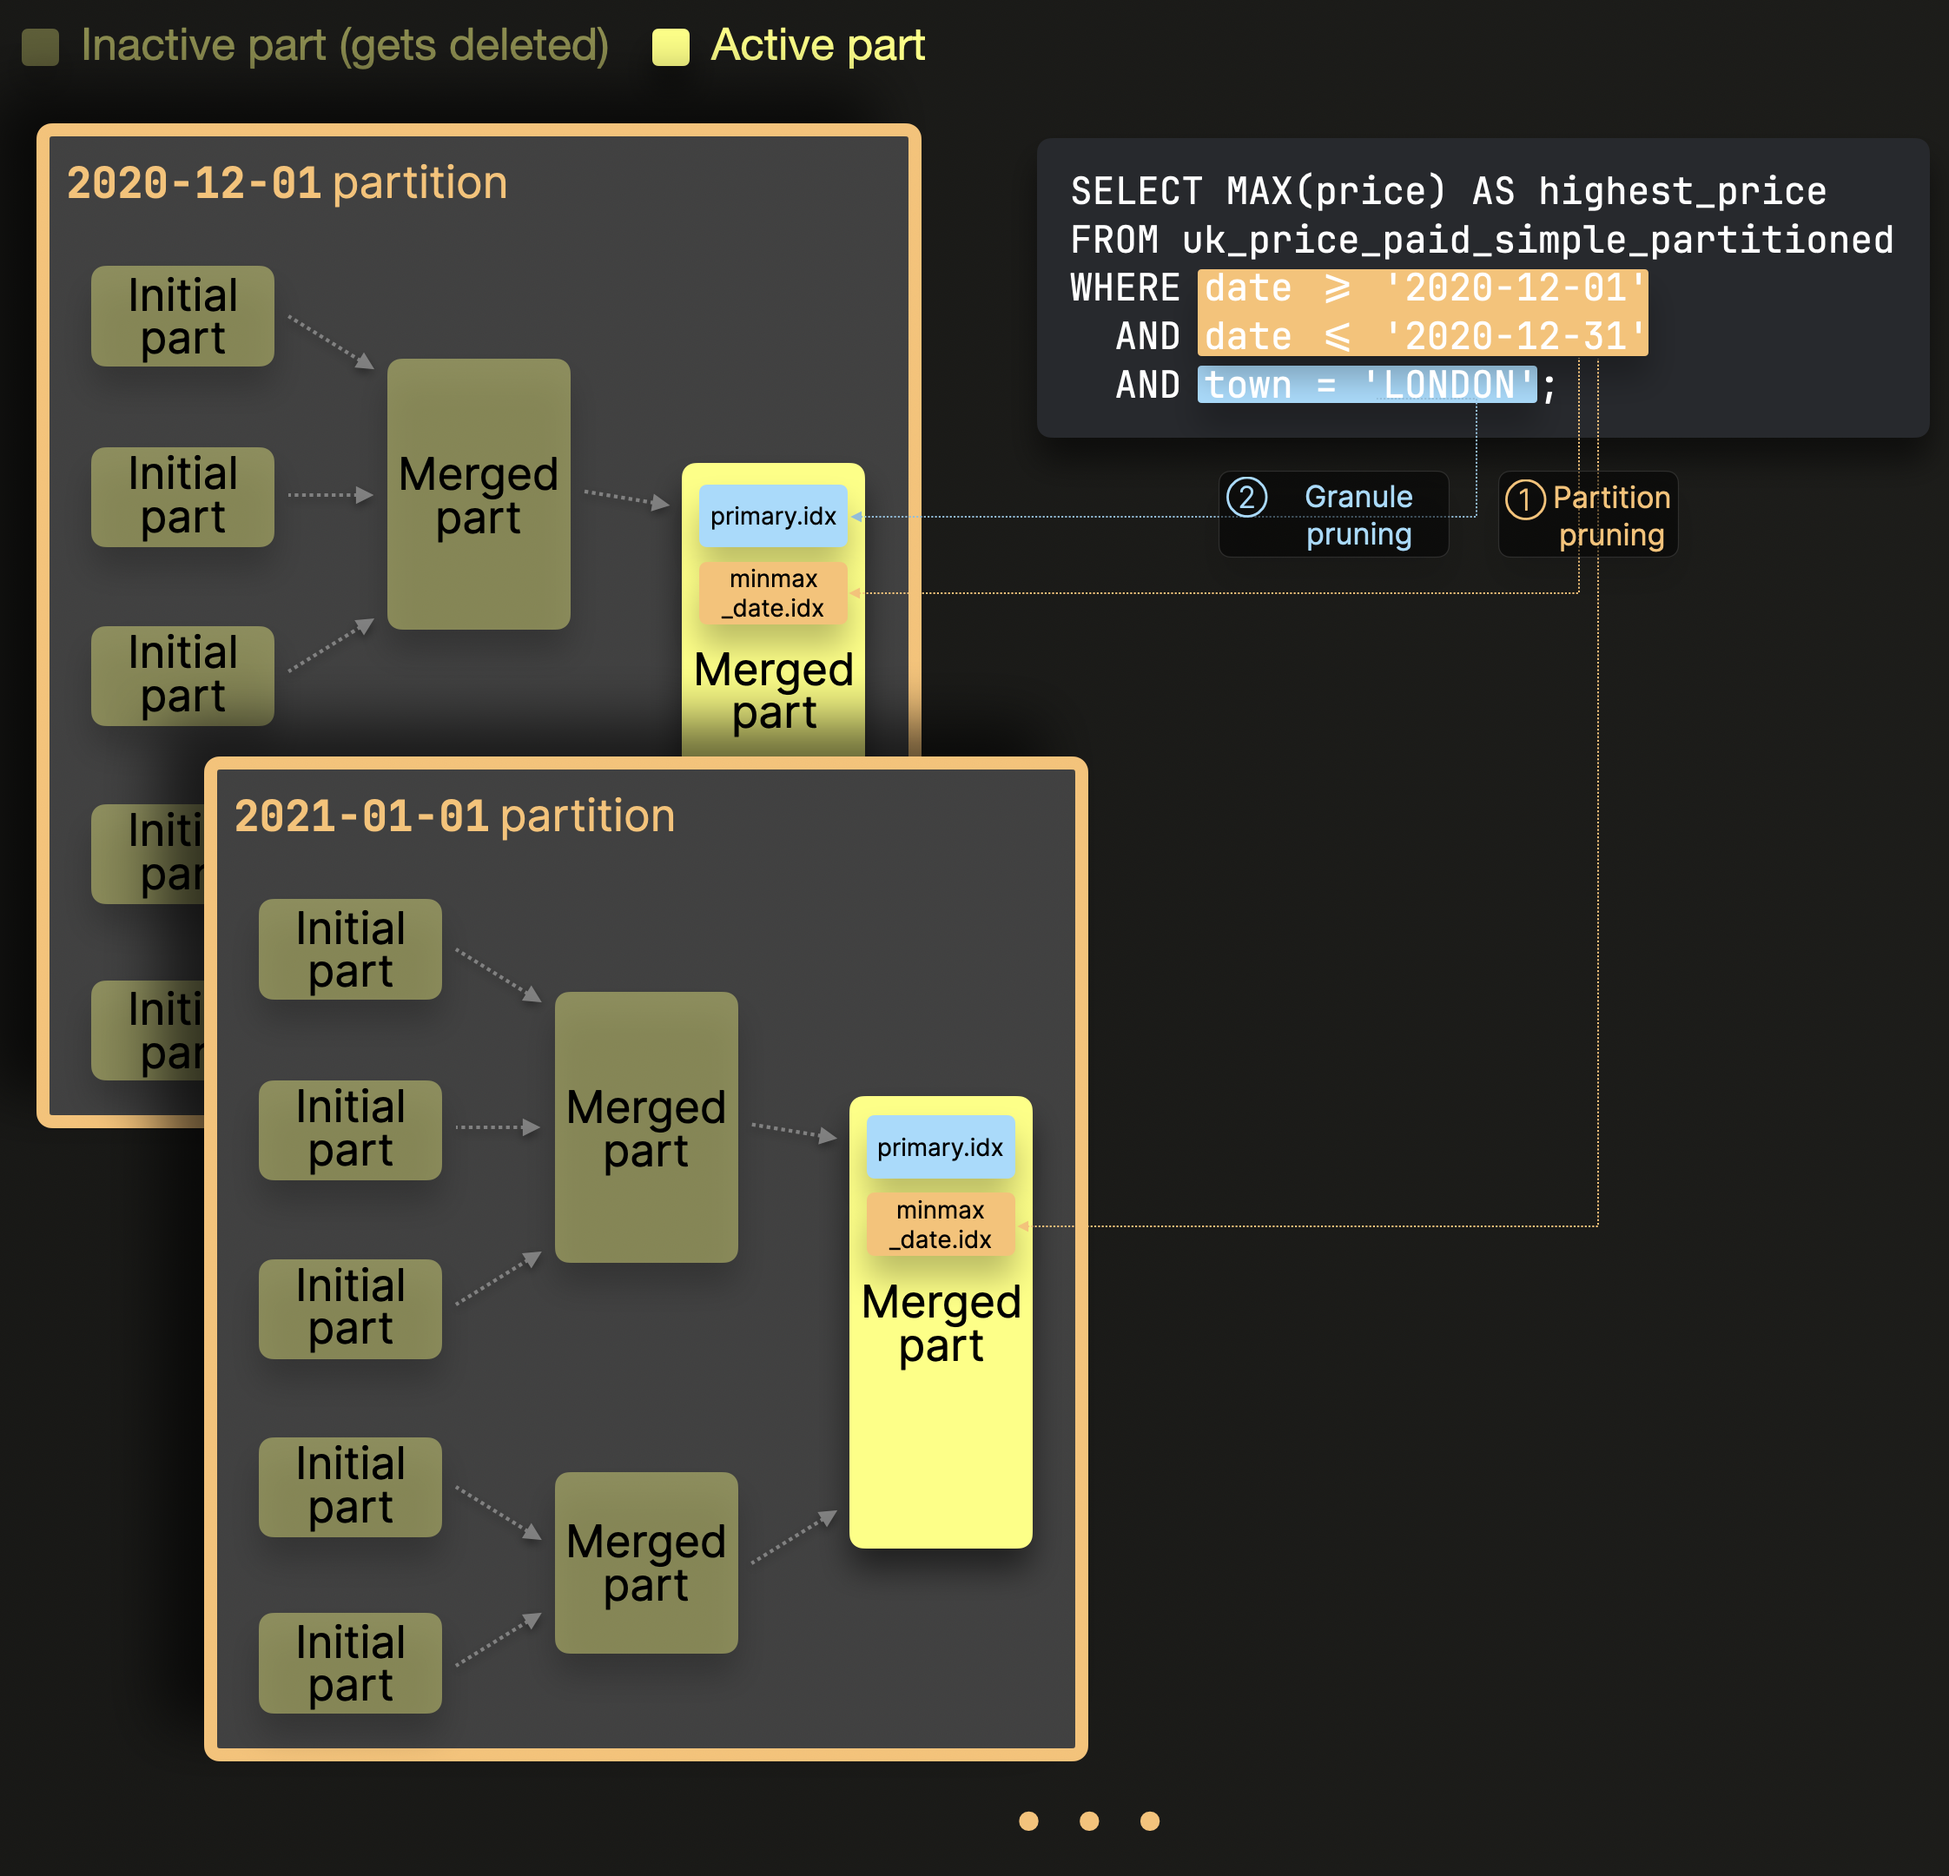
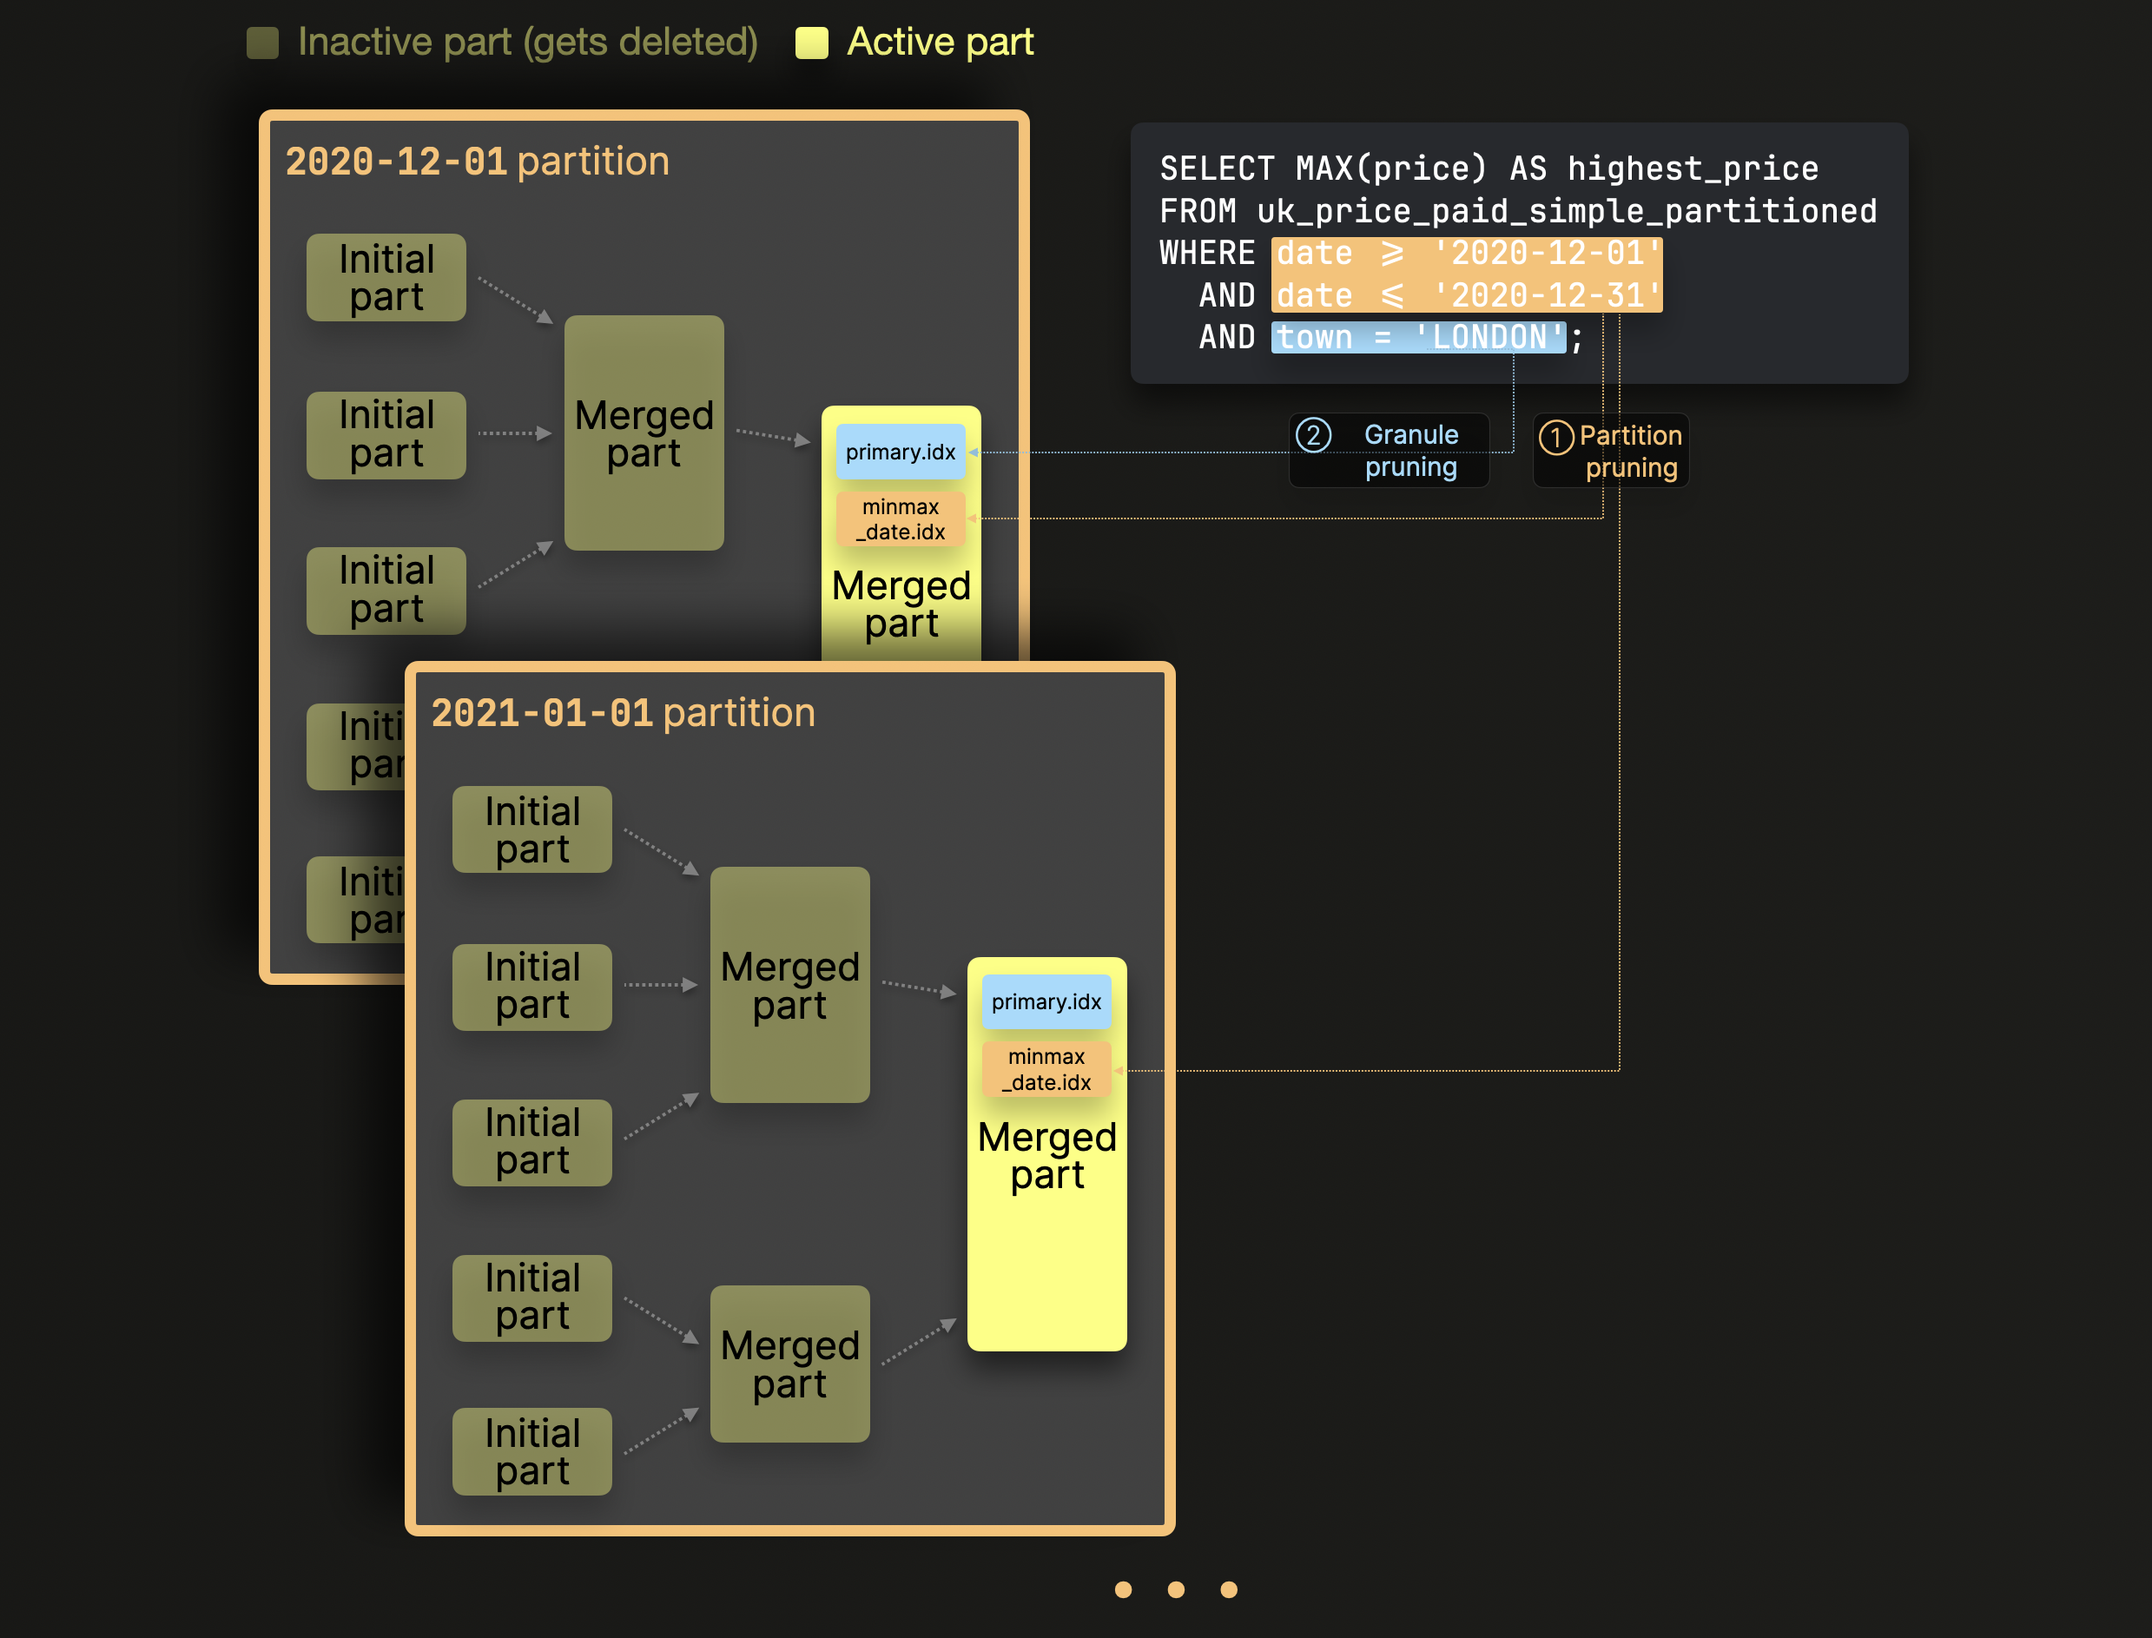
Align diagram widths.

diff --git a/docs/en/managing-data/core-concepts/partitions.md b/docs/en/managing-data/core-concepts/partitions.md
@@ -45,7 +45,7 @@ Note that with partitioning enabled, ClickHouse automatically creates [MinMax in
 
 Further note that with partitioning enabled, ClickHouse only [merges](/docs/en/parts) data parts within, but not across partitions. We sketch that for our example table from above:
 
-<img src={require('./images/merges_with_partitions.png').default} alt='PART MERGES' class='image' style={{width: '50%'}} />
+<img src={require('./images/merges_with_partitions.png').default} alt='PART MERGES' class='image' style={{width: '100%'}} />
 <br/>
 
 As sketched in the diagram above, parts belonging to different partitions are never merged. If a partition key with high cardinality is chosen, then parts spread across thousands of partitions will never be merge candidates - exceeding preconfigured limits and causing the dreaded `Too many parts` error. Addressing this problem is simple: choose a sensible partition key with [cardinality under 1000..10000](https://github.com/ClickHouse/ClickHouse-beta/blob/c35751b5f86edaaf6fa144182b955678e56bf30a/src/Storages/MergeTree/MergeTreeDataWriter.cpp#L79).
@@ -154,7 +154,7 @@ The query runs over our example table from above and [calculates](https://sql.cl
 
 ClickHouse processes that query by applying a sequence of pruning techniques to avoid evaluating irrelevant data:
 
-<img src={require('./images/partition-pruning.png').default} alt='PART MERGES' class='image' style={{width: '70%'}} />
+<img src={require('./images/partition-pruning.png').default} alt='PART MERGES' class='image' style={{width: '100%'}} />
 <br/>
 
 ① **Partition pruning**: [MinMax indexes](/docs/en/partitions#what-are-table-partitions-in-clickhouse) are used to ignore whole partitions (sets of parts) that logically can't match the query's filter on columns used in the table's partition key.

diff --git a/docs/en/managing-data/core-concepts/parts.md b/docs/en/managing-data/core-concepts/parts.md
@@ -49,7 +49,7 @@ Data parts are self-contained, including all metadata needed to interpret their 
 
 To manage the number of parts per table, a background merge job periodically combines smaller parts into larger ones until they reach a [configurable](/docs/en/operations/settings/merge-tree-settings#max-bytes-to-merge-at-max-space-in-pool) compressed size (typically ~150 GB). Merged parts are marked as inactive and deleted after a [configurable](/docs/en/operations/settings/merge-tree-settings#old-parts-lifetime) time interval. Over time, this process creates a hierarchical structure of merged parts, which is why it’s called a MergeTree table:
 
-<img src={require('./images/merges.png').default} alt='PART MERGES' class='image' style={{width: '50%'}} />
+<img src={require('./images/merges.png').default} alt='PART MERGES' class='image' style={{width: '100%'}} />
 <br/>
 
 To minimize the number of initial parts and the overhead of merges, database clients are [encouraged](https://clickhouse.com/blog/asynchronous-data-inserts-in-clickhouse#data-needs-to-be-batched-for-optimal-performance) to either insert tuples in bulk, e.g. 20,000 rows at once, or to use the [asynchronous insert mode](https://clickhouse.com/blog/asynchronous-data-inserts-in-clickhouse), in which ClickHouse buffers rows from multiple incoming INSERTs into the same table and creates a new part only after the buffer size exceeds a configurable threshold, or a timeout expires.
